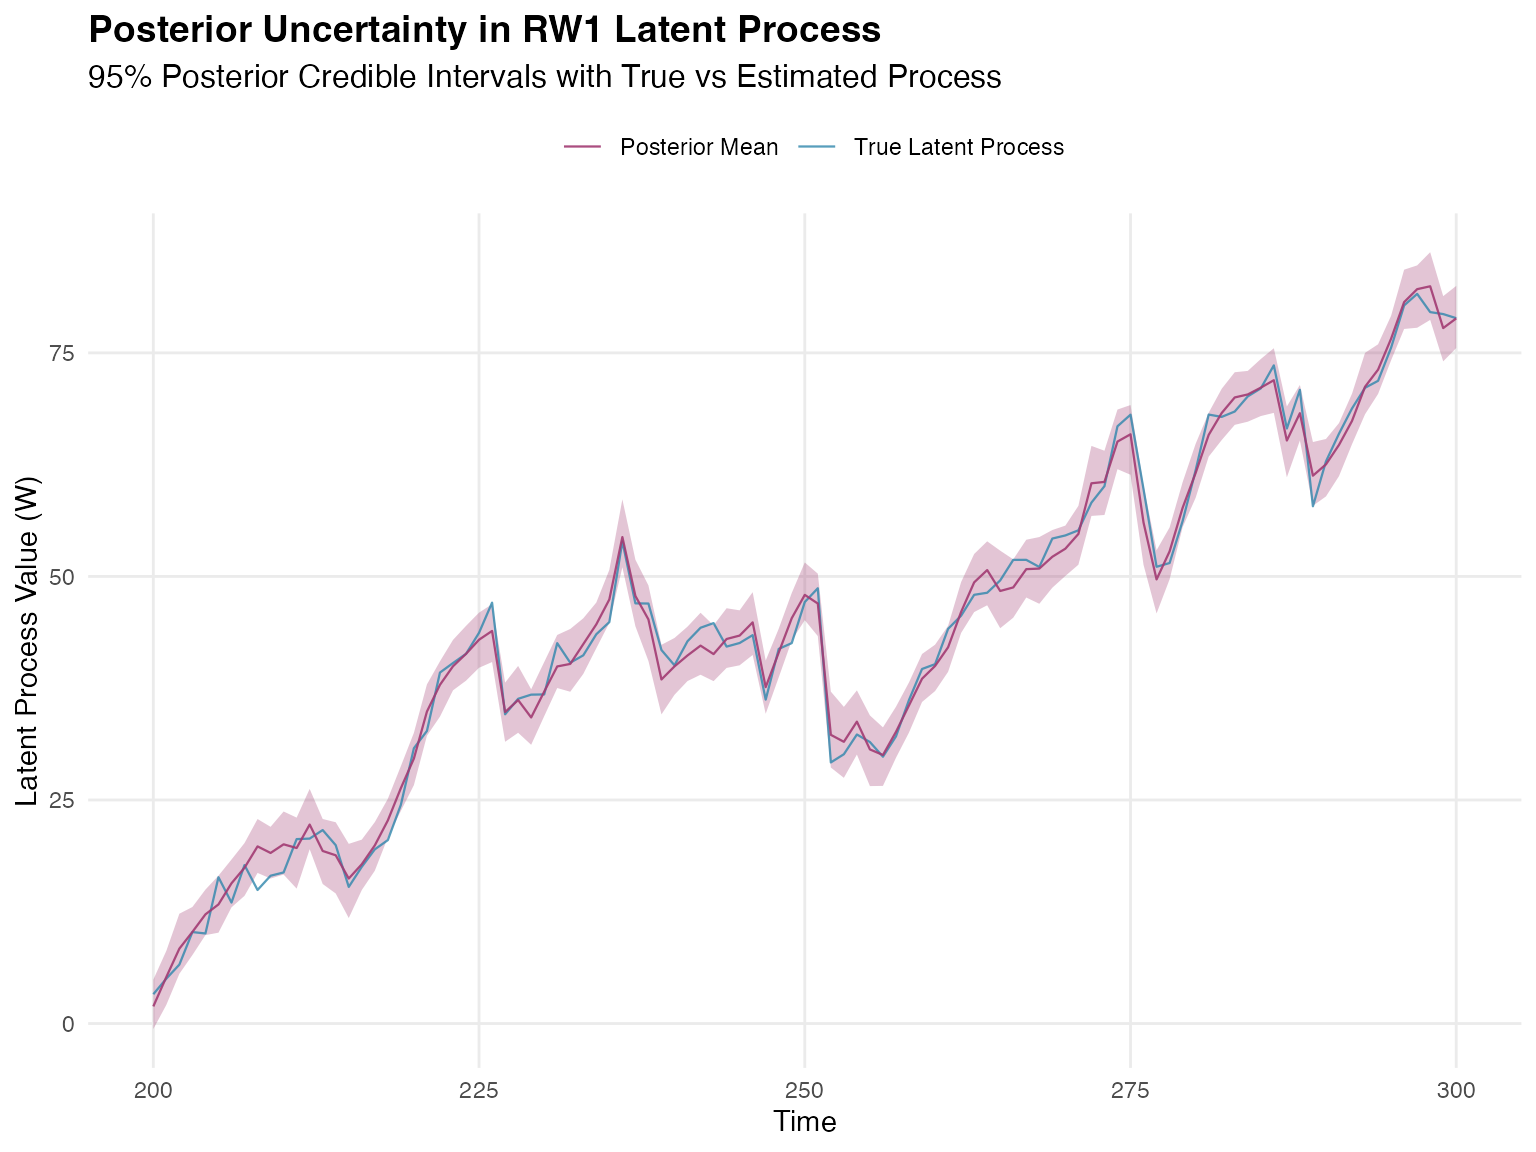
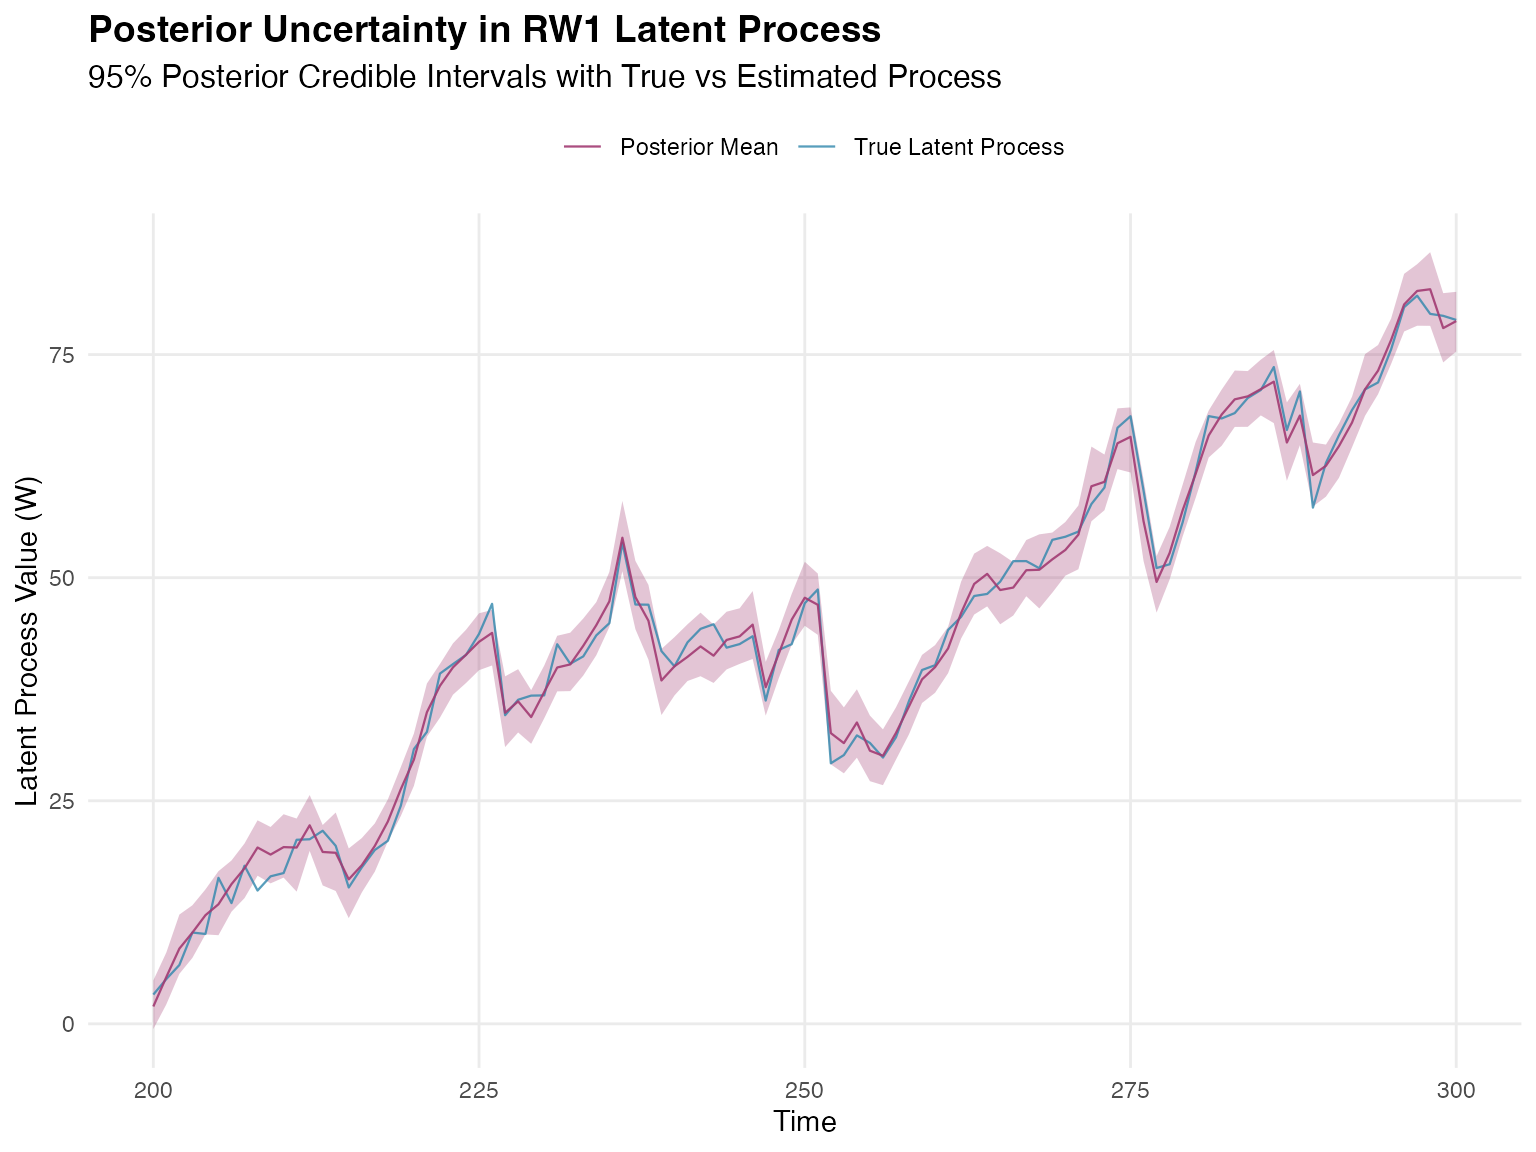
update f.R and docs

diff --git a/docs/articles/RW-model.html b/docs/articles/RW-model.html
@@ -963,7 +963,7 @@ results:</p>
 <span><span class="co">#&gt; </span></span>
 <span><span class="co">#&gt; Fixed effects: </span></span>
 <span><span class="co">#&gt;     x1     x2     x3 </span></span>
-<span><span class="co">#&gt; -0.961  2.005  0.470 </span></span>
+<span><span class="co">#&gt; -0.963  2.005  0.471 </span></span>
 <span><span class="co">#&gt; </span></span>
 <span><span class="co">#&gt; Models: </span></span>
 <span><span class="co">#&gt; $my_rw</span></span>
@@ -971,14 +971,14 @@ results:</p>
 <span><span class="co">#&gt;       No parameter.</span></span>
 <span><span class="co">#&gt;   Noise type: NIG</span></span>
 <span><span class="co">#&gt;   Noise parameters: </span></span>
-<span><span class="co">#&gt;       mu = -3.22</span></span>
-<span><span class="co">#&gt;       sigma = 3.69</span></span>
-<span><span class="co">#&gt;       nu = 0.516</span></span>
+<span><span class="co">#&gt;       mu = -3.21</span></span>
+<span><span class="co">#&gt;       sigma = 3.71</span></span>
+<span><span class="co">#&gt;       nu = 0.521</span></span>
 <span><span class="co">#&gt; </span></span>
 <span><span class="co">#&gt; Measurement noise: </span></span>
 <span><span class="co">#&gt;   Noise type: NORMAL</span></span>
 <span><span class="co">#&gt;   Noise parameters: </span></span>
-<span><span class="co">#&gt;       sigma = 2.2</span></span></code></pre></div>
+<span><span class="co">#&gt;       sigma = 2.23</span></span></code></pre></div>
 </div>
 <div class="section level3">
 <h3 id="convergence-diagnostics">Convergence Diagnostics<a class="anchor" aria-label="anchor" href="#convergence-diagnostics"></a>
@@ -992,16 +992,16 @@ will use the built-in <code>traceplot</code> function from
 <p><img src="RW-model_files/figure-html/convergence-diagnostics-1.png" width="100%"></p>
 <pre><code><span><span class="co">#&gt; Last estimates:</span></span>
 <span><span class="co">#&gt; $sigma</span></span>
-<span><span class="co">#&gt; [1] 2.205749</span></span>
+<span><span class="co">#&gt; [1] 2.201553</span></span>
 <span><span class="co">#&gt; </span></span>
 <span><span class="co">#&gt; $`fixed effect 1`</span></span>
-<span><span class="co">#&gt; [1] -0.9610025</span></span>
+<span><span class="co">#&gt; [1] -0.9627772</span></span>
 <span><span class="co">#&gt; </span></span>
 <span><span class="co">#&gt; $`fixed effect 2`</span></span>
-<span><span class="co">#&gt; [1] 2.005062</span></span>
+<span><span class="co">#&gt; [1] 2.004792</span></span>
 <span><span class="co">#&gt; </span></span>
 <span><span class="co">#&gt; $`fixed effect 3`</span></span>
-<span><span class="co">#&gt; [1] 0.4697675</span></span></code></pre>
+<span><span class="co">#&gt; [1] 0.4708141</span></span></code></pre>
 <p>Now let us examine the convergence of the RW1 process parameters:</p>
 <div class="sourceCode" id="cb19"><pre class="downlit sourceCode r">
 <code class="sourceCode R"><span><span class="co"># Trace plots for RW1 parameters (blue lines indicate true value)</span></span>
@@ -1009,13 +1009,13 @@ will use the built-in <code>traceplot</code> function from
 <p><img src="RW-model_files/figure-html/convergence-rw-process-1.png" width="100%"></p>
 <pre><code><span><span class="co">#&gt; Last estimates:</span></span>
 <span><span class="co">#&gt; $mu</span></span>
-<span><span class="co">#&gt; [1] -3.215658</span></span>
+<span><span class="co">#&gt; [1] -3.209374</span></span>
 <span><span class="co">#&gt; </span></span>
 <span><span class="co">#&gt; $sigma</span></span>
-<span><span class="co">#&gt; [1] 3.683113</span></span>
+<span><span class="co">#&gt; [1] 3.697005</span></span>
 <span><span class="co">#&gt; </span></span>
 <span><span class="co">#&gt; $nu</span></span>
-<span><span class="co">#&gt; [1] 0.5172414</span></span></code></pre>
+<span><span class="co">#&gt; [1] 0.5210412</span></span></code></pre>
 </div>
 <div class="section level3">
 <h3 id="parameter-estimates-summary">Parameter Estimates Summary<a class="anchor" aria-label="anchor" href="#parameter-estimates-summary"></a>
@@ -1033,14 +1033,14 @@ the true values using the <code><a href="../reference/ngme_result.html">ngme_res
 <span>  row.names <span class="op">=</span> <span class="fu"><a href="https://rdrr.io/r/base/names.html" class="external-link">names</a></span><span class="op">(</span><span class="va">params_data</span><span class="op">$</span><span class="va">fixed_effects</span><span class="op">)</span></span>
 <span><span class="op">)</span><span class="op">)</span></span>
 <span><span class="co">#&gt;    Truth  Estimates</span></span>
-<span><span class="co">#&gt; x1  -1.0 -0.9611611</span></span>
-<span><span class="co">#&gt; x2   2.0  2.0051729</span></span>
-<span><span class="co">#&gt; x3   0.5  0.4698167</span></span>
+<span><span class="co">#&gt; x1  -1.0 -0.9630700</span></span>
+<span><span class="co">#&gt; x2   2.0  2.0047949</span></span>
+<span><span class="co">#&gt; x3   0.5  0.4710528</span></span>
 <span></span>
 <span><span class="co"># Measurement Noise</span></span>
 <span><span class="fu"><a href="https://rdrr.io/r/base/print.html" class="external-link">print</a></span><span class="op">(</span><span class="fu"><a href="https://rdrr.io/r/base/data.frame.html" class="external-link">data.frame</a></span><span class="op">(</span>Truth <span class="op">=</span> <span class="fl">2.0</span>, Estimate <span class="op">=</span> <span class="va">params_data</span><span class="op">$</span><span class="va">sigma</span>, row.names <span class="op">=</span> <span class="st">"sigma"</span><span class="op">)</span><span class="op">)</span></span>
 <span><span class="co">#&gt;       Truth Estimate</span></span>
-<span><span class="co">#&gt; sigma     2 2.201649</span></span>
+<span><span class="co">#&gt; sigma     2 2.231313</span></span>
 <span><span class="fu"><a href="https://rdrr.io/r/base/cat.html" class="external-link">cat</a></span><span class="op">(</span><span class="st">"\n"</span><span class="op">)</span></span>
 <span></span>
 <span><span class="co"># RW1 Process Parameters</span></span>
@@ -1051,9 +1051,9 @@ the true values using the <code><a href="../reference/ngme_result.html">ngme_res
 <span>  Estimates <span class="op">=</span> <span class="fu"><a href="https://rdrr.io/r/base/unlist.html" class="external-link">unlist</a></span><span class="op">(</span><span class="va">params_rw1</span><span class="op">)</span></span>
 <span><span class="op">)</span><span class="op">)</span></span>
 <span><span class="co">#&gt;       Truth  Estimates</span></span>
-<span><span class="co">#&gt; mu     -3.0 -3.2218795</span></span>
-<span><span class="co">#&gt; sigma   4.0  3.6886618</span></span>
-<span><span class="co">#&gt; nu      0.4  0.5160867</span></span></code></pre></div>
+<span><span class="co">#&gt; mu     -3.0 -3.2139780</span></span>
+<span><span class="co">#&gt; sigma   4.0  3.7060626</span></span>
+<span><span class="co">#&gt; nu      0.4  0.5212606</span></span></code></pre></div>
 </div>
 <div class="section level3">
 <h3 id="model-validation">Model Validation<a class="anchor" aria-label="anchor" href="#model-validation"></a>
@@ -1179,9 +1179,9 @@ estimation:</p>
 <span><span class="va">coverage_90_interp</span> <span class="op">&lt;-</span> <span class="fu"><a href="https://rdrr.io/r/base/mean.html" class="external-link">mean</a></span><span class="op">(</span><span class="va">in_interval_90_interp</span><span class="op">)</span></span>
 <span></span>
 <span><span class="fu"><a href="https://rdrr.io/r/base/cat.html" class="external-link">cat</a></span><span class="op">(</span><span class="st">"RMSE:"</span>, <span class="fu"><a href="https://rdrr.io/r/base/Round.html" class="external-link">round</a></span><span class="op">(</span><span class="va">rmse_interp</span>, <span class="fl">3</span><span class="op">)</span>, <span class="st">"\n"</span><span class="op">)</span></span>
-<span><span class="co">#&gt; RMSE: 3.641</span></span>
+<span><span class="co">#&gt; RMSE: 3.639</span></span>
 <span><span class="fu"><a href="https://rdrr.io/r/base/cat.html" class="external-link">cat</a></span><span class="op">(</span><span class="st">"MAE:"</span>, <span class="fu"><a href="https://rdrr.io/r/base/Round.html" class="external-link">round</a></span><span class="op">(</span><span class="va">mae_interp</span>, <span class="fl">3</span><span class="op">)</span>, <span class="st">"\n"</span><span class="op">)</span></span>
-<span><span class="co">#&gt; MAE: 3.126</span></span>
+<span><span class="co">#&gt; MAE: 3.122</span></span>
 <span><span class="fu"><a href="https://rdrr.io/r/base/cat.html" class="external-link">cat</a></span><span class="op">(</span><span class="st">"Correlation:"</span>, <span class="fu"><a href="https://rdrr.io/r/base/Round.html" class="external-link">round</a></span><span class="op">(</span><span class="va">correlation_interp</span>, <span class="fl">3</span><span class="op">)</span>, <span class="st">"\n"</span><span class="op">)</span></span>
 <span><span class="co">#&gt; Correlation: 0.993</span></span>
 <span><span class="fu"><a href="https://rdrr.io/r/base/cat.html" class="external-link">cat</a></span><span class="op">(</span><span class="st">"90% Interval Coverage:"</span>, <span class="fu"><a href="https://rdrr.io/r/base/Round.html" class="external-link">round</a></span><span class="op">(</span><span class="va">coverage_90_interp</span> <span class="op">*</span> <span class="fl">100</span>, <span class="fl">1</span><span class="op">)</span>, <span class="st">"%\n"</span><span class="op">)</span></span>
@@ -1195,16 +1195,16 @@ estimation:</p>
 <span>  Upper_90 <span class="op">=</span> <span class="fu"><a href="https://rdrr.io/r/base/Round.html" class="external-link">round</a></span><span class="op">(</span><span class="va">interp_upper</span><span class="op">[</span><span class="fl">1</span><span class="op">:</span><span class="fl">10</span><span class="op">]</span>, <span class="fl">2</span><span class="op">)</span></span>
 <span><span class="op">)</span><span class="op">)</span></span>
 <span><span class="co">#&gt;    Time Observed Interpolated Lower_90 Upper_90</span></span>
-<span><span class="co">#&gt; 1   151   -14.39       -16.54   -16.50   -13.60</span></span>
-<span><span class="co">#&gt; 2   152   -16.94       -14.60   -14.59   -11.64</span></span>
-<span><span class="co">#&gt; 3   153   -16.52       -14.12   -14.14   -11.13</span></span>
-<span><span class="co">#&gt; 4   154   -17.10       -15.02   -15.08   -12.02</span></span>
-<span><span class="co">#&gt; 5   155     7.52         5.35     5.27     8.38</span></span>
-<span><span class="co">#&gt; 6   250    68.17        62.16    62.16    65.41</span></span>
-<span><span class="co">#&gt; 7   251    43.51        37.30    37.30    40.53</span></span>
-<span><span class="co">#&gt; 8   252    43.77        48.45    48.45    51.67</span></span>
-<span><span class="co">#&gt; 9   253    39.76        45.65    45.66    48.87</span></span>
-<span><span class="co">#&gt; 10  254    86.37        83.40    83.41    86.61</span></span></code></pre></div>
+<span><span class="co">#&gt; 1   151   -14.39       -16.56   -16.49   -13.65</span></span>
+<span><span class="co">#&gt; 2   152   -16.94       -14.61   -14.58   -11.72</span></span>
+<span><span class="co">#&gt; 3   153   -16.52       -14.13   -14.13   -11.26</span></span>
+<span><span class="co">#&gt; 4   154   -17.10       -15.03   -15.06   -12.19</span></span>
+<span><span class="co">#&gt; 5   155     7.52         5.34     5.28     8.17</span></span>
+<span><span class="co">#&gt; 6   250    68.17        62.19    62.18    65.43</span></span>
+<span><span class="co">#&gt; 7   251    43.51        37.33    37.30    40.56</span></span>
+<span><span class="co">#&gt; 8   252    43.77        48.49    48.43    51.71</span></span>
+<span><span class="co">#&gt; 9   253    39.76        45.69    45.62    48.90</span></span>
+<span><span class="co">#&gt; 10  254    86.37        83.45    83.36    86.64</span></span></code></pre></div>
 </div>
 </div>
 <div class="section level3">
@@ -1266,12 +1266,12 @@ recover the underlying spatial structure:</p>
 <span>  <span class="st">"Mean absolute difference from true values:"</span>,</span>
 <span>  <span class="fu"><a href="https://rdrr.io/r/base/Round.html" class="external-link">round</a></span><span class="op">(</span><span class="fu"><a href="https://rdrr.io/r/base/mean.html" class="external-link">mean</a></span><span class="op">(</span><span class="fu"><a href="https://rdrr.io/r/base/MathFun.html" class="external-link">abs</a></span><span class="op">(</span><span class="va">W_posterior_mean</span> <span class="op">-</span> <span class="va">W1_nig</span><span class="op">)</span><span class="op">)</span>, <span class="fl">3</span><span class="op">)</span>, <span class="st">"\n"</span></span>
 <span><span class="op">)</span></span>
-<span><span class="co">#&gt; Mean absolute difference from true values: 1.257</span></span>
+<span><span class="co">#&gt; Mean absolute difference from true values: 1.256</span></span>
 <span><span class="fu"><a href="https://rdrr.io/r/base/cat.html" class="external-link">cat</a></span><span class="op">(</span></span>
 <span>  <span class="st">"Average posterior standard deviation:"</span>,</span>
 <span>  <span class="fu"><a href="https://rdrr.io/r/base/Round.html" class="external-link">round</a></span><span class="op">(</span><span class="fu"><a href="https://rdrr.io/r/base/mean.html" class="external-link">mean</a></span><span class="op">(</span><span class="va">W_posterior_sd</span><span class="op">)</span>, <span class="fl">3</span><span class="op">)</span>, <span class="st">"\n"</span></span>
 <span><span class="op">)</span></span>
-<span><span class="co">#&gt; Average posterior standard deviation: 1.72</span></span></code></pre></div>
+<span><span class="co">#&gt; Average posterior standard deviation: 1.74</span></span></code></pre></div>
 </div>
 <div class="section level3">
 <h3 id="latent-process-uncertainty-visualization">Latent Process Uncertainty Visualization<a class="anchor" aria-label="anchor" href="#latent-process-uncertainty-visualization"></a>
